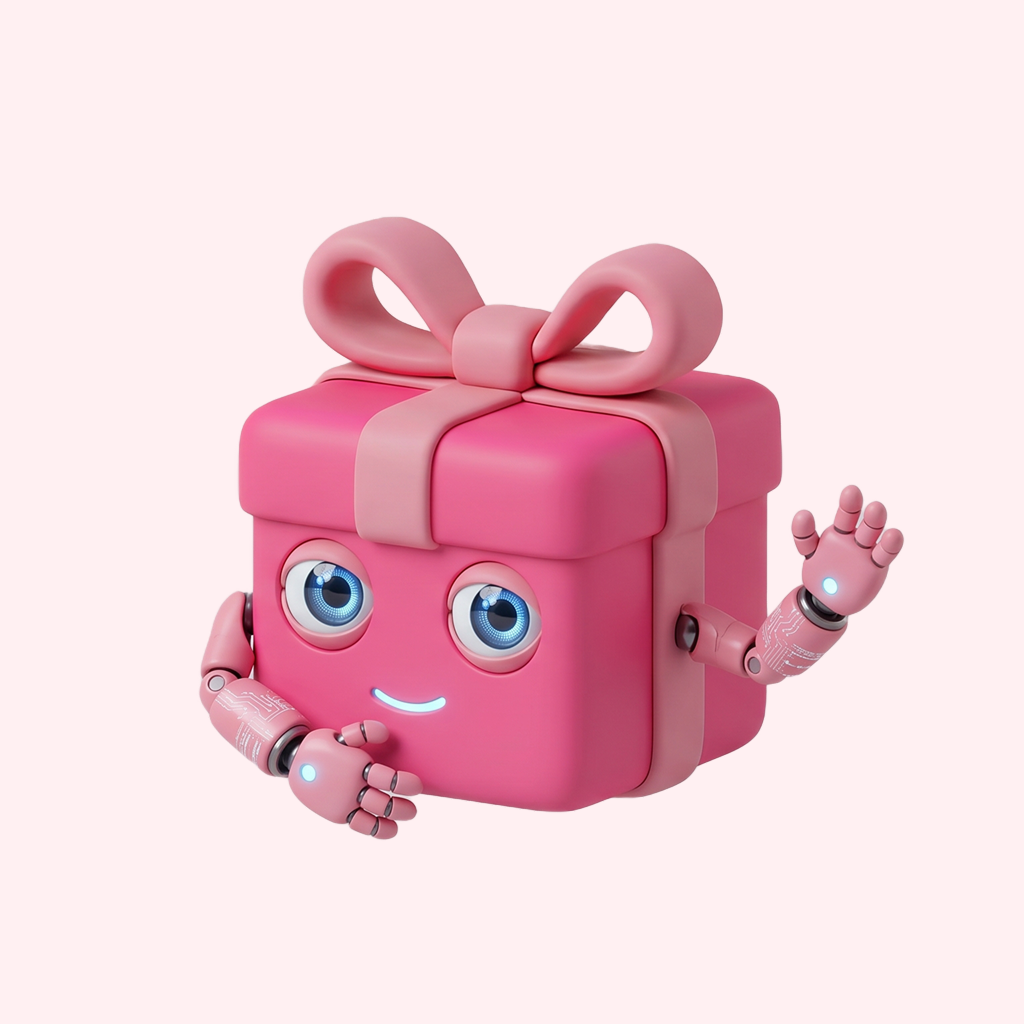
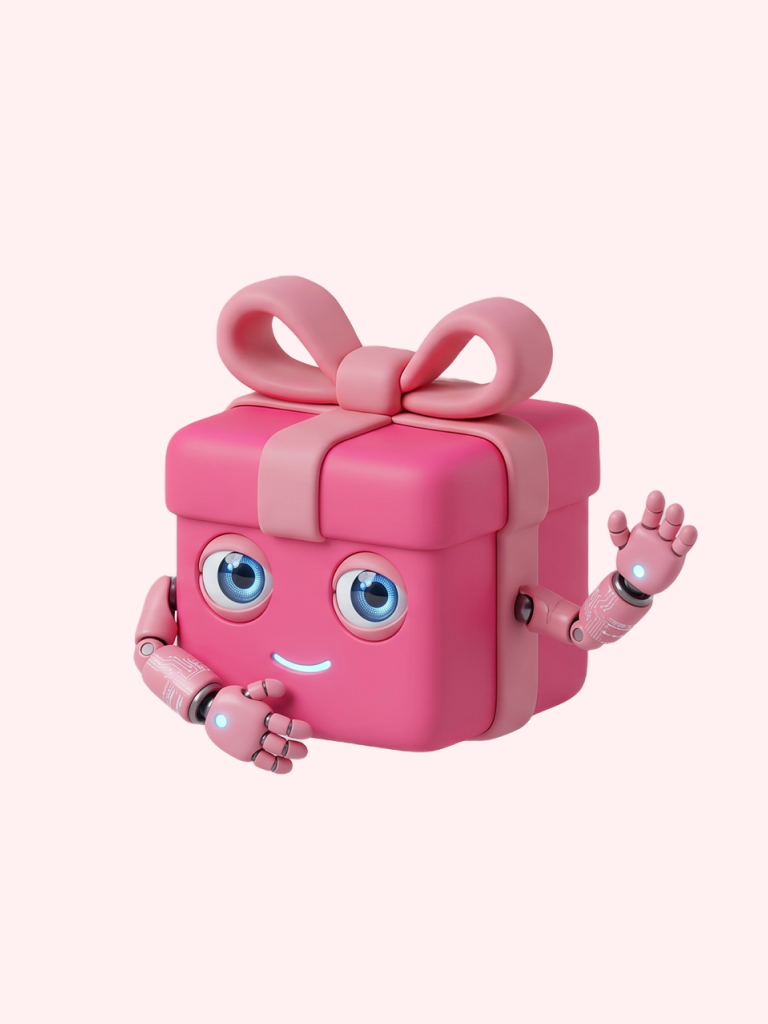
EventSerializer

Changed region(s): [[0.1562, 0.1875, 0.9062, 0.8438]]

diff --git a/Front_Expo/app/(tabs)/history.tsx b/Front_Expo/app/(tabs)/history.tsx
@@ -87,6 +87,8 @@ export default function HistoryScreen() {
   // 📊 대시보드용 통계 데이터 실시간 계산 (평탄화된 events 리스트 기반)
   const totalCount = events.length;
 
+  console.log(events);
+
   const totalMinBudget = events.reduce(
     (sum: number, item: any) => sum + (item.min_budget || 0),
     0,
@@ -162,7 +164,6 @@ export default function HistoryScreen() {
             </View>
             {events.length > 0 ? (
               events.map((item) => {
-                // 날짜 포맷 수정 (2026-05-14T... -> 2026년 05월 14일)
                 const displayDate = item.created_at
                   ? new Date(item.created_at).toLocaleDateString("ko-KR", {
                       year: "numeric",

diff --git a/Back_Django/gift/serializers.py b/Back_Django/gift/serializers.py
@@ -35,7 +35,14 @@ class EventSerializer(serializers.ModelSerializer):
 
     class Meta:
         model = Event
-        fields = ["id", "purpose", "purpose_display", "min_budget", "max_budget"]
+        fields = [
+            "id",
+            "purpose",
+            "purpose_display",
+            "min_budget",
+            "max_budget",
+            "created_at",
+        ]
 
         read_only_fields = ["id"]
 
@@ -65,6 +72,7 @@ class RecommendedProductSerializer(serializers.ModelSerializer):
             "recommendation_reason",
             "search_keyword",
             "status",
+            "created_at",
         ]
 
 
